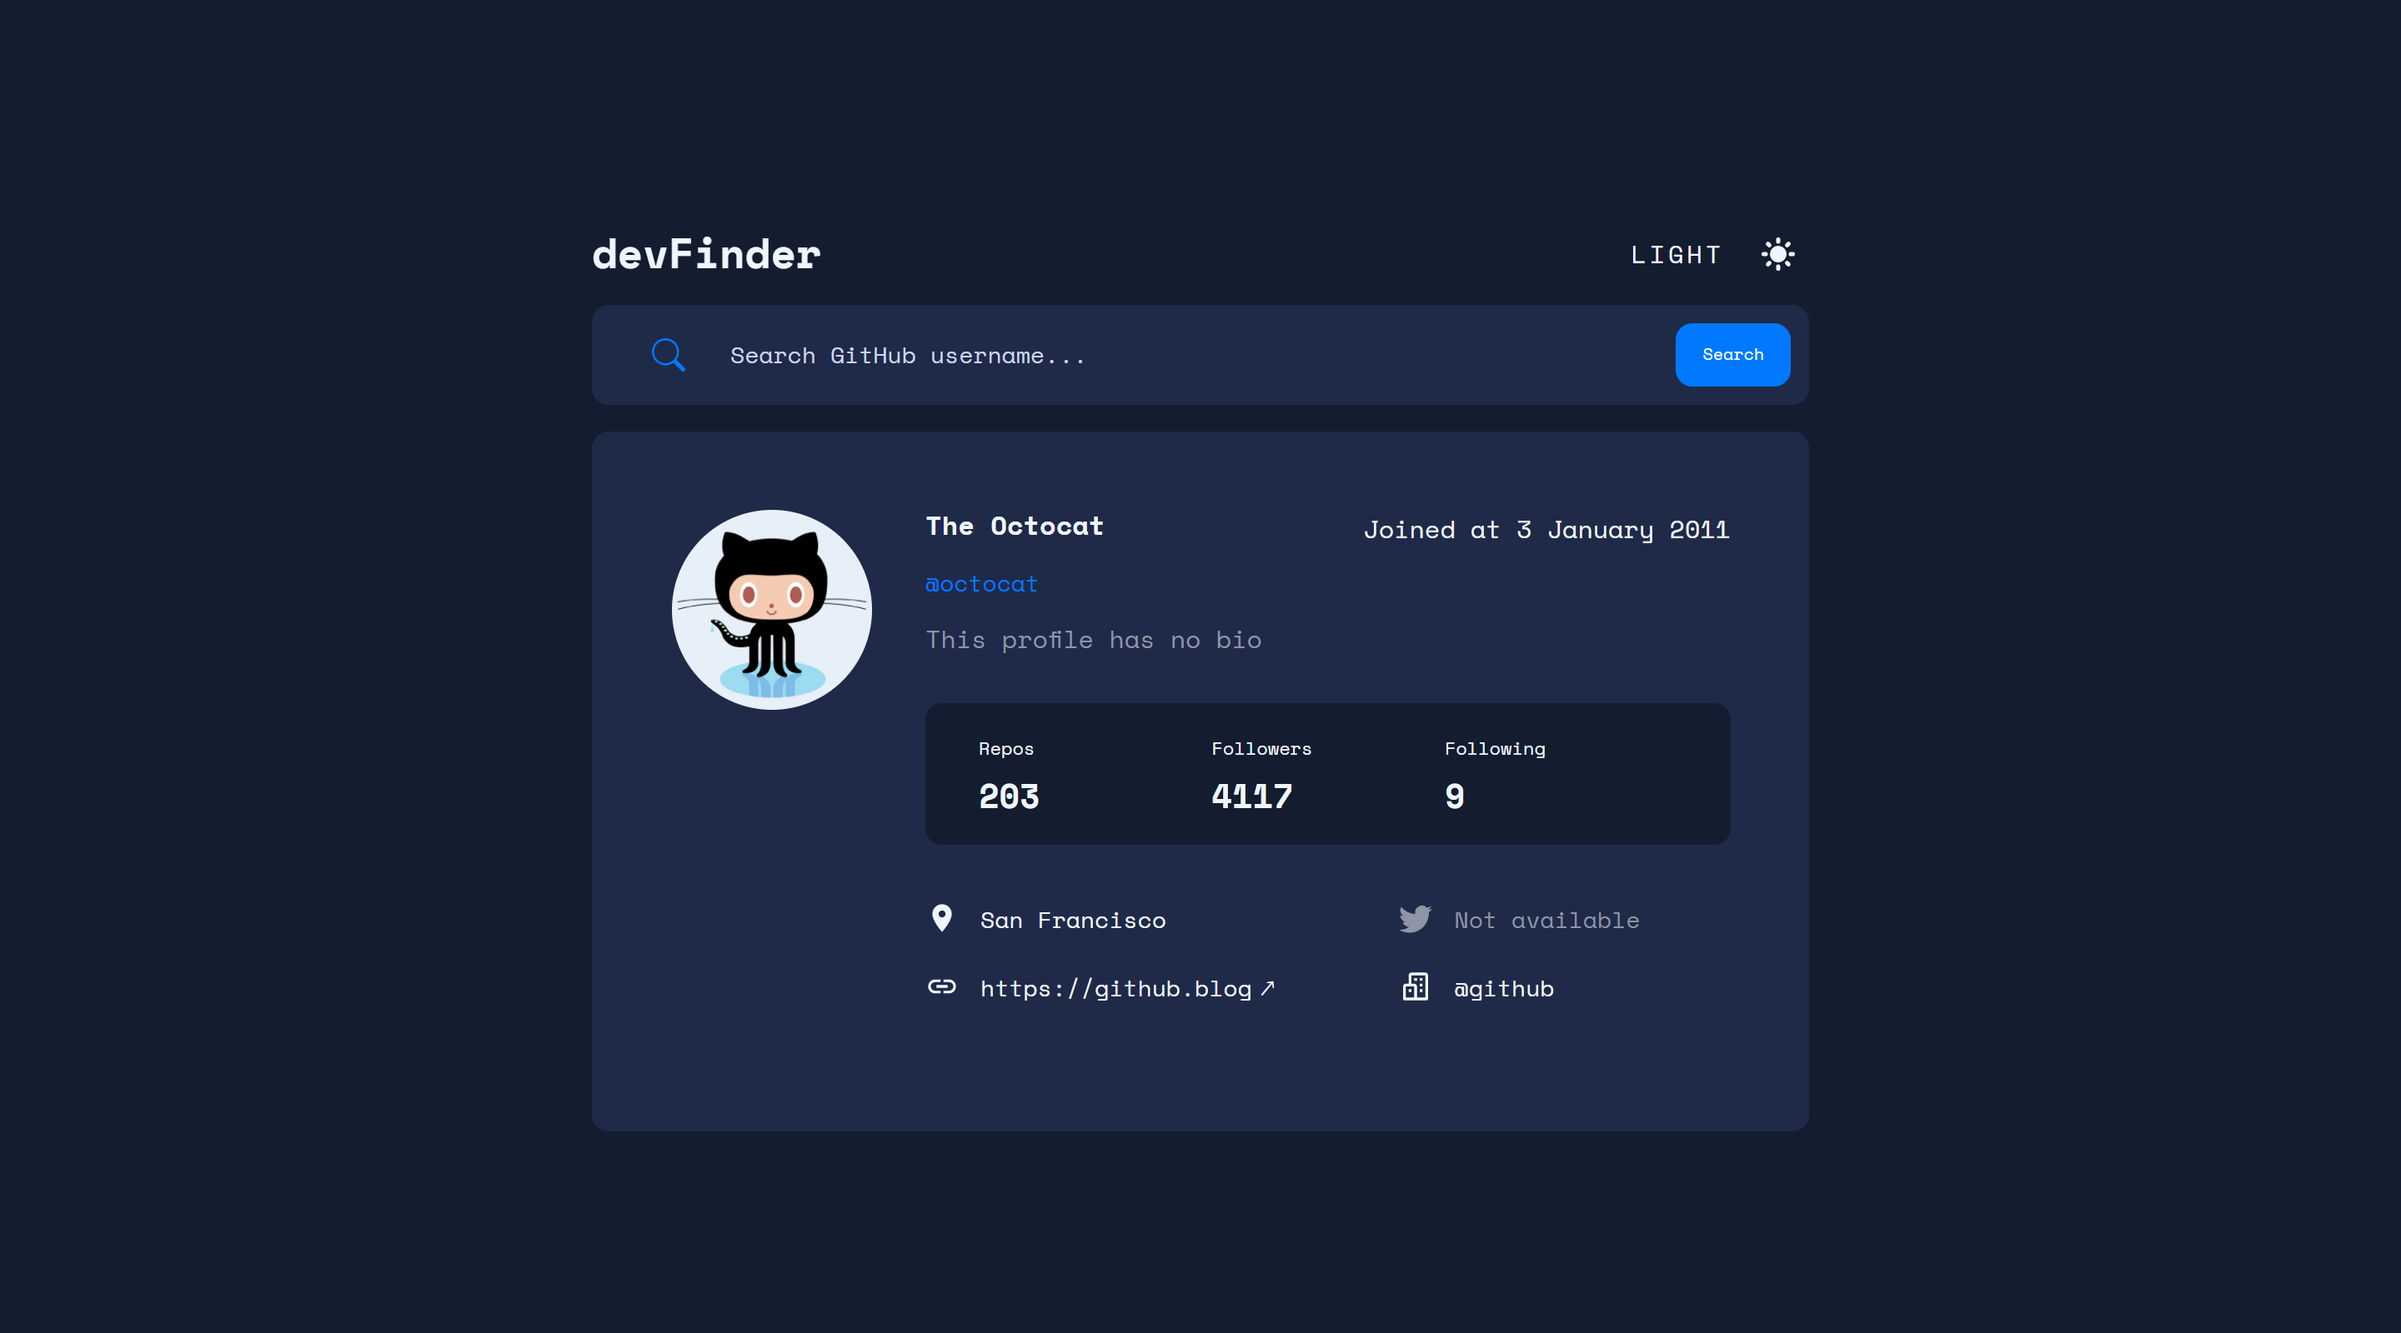
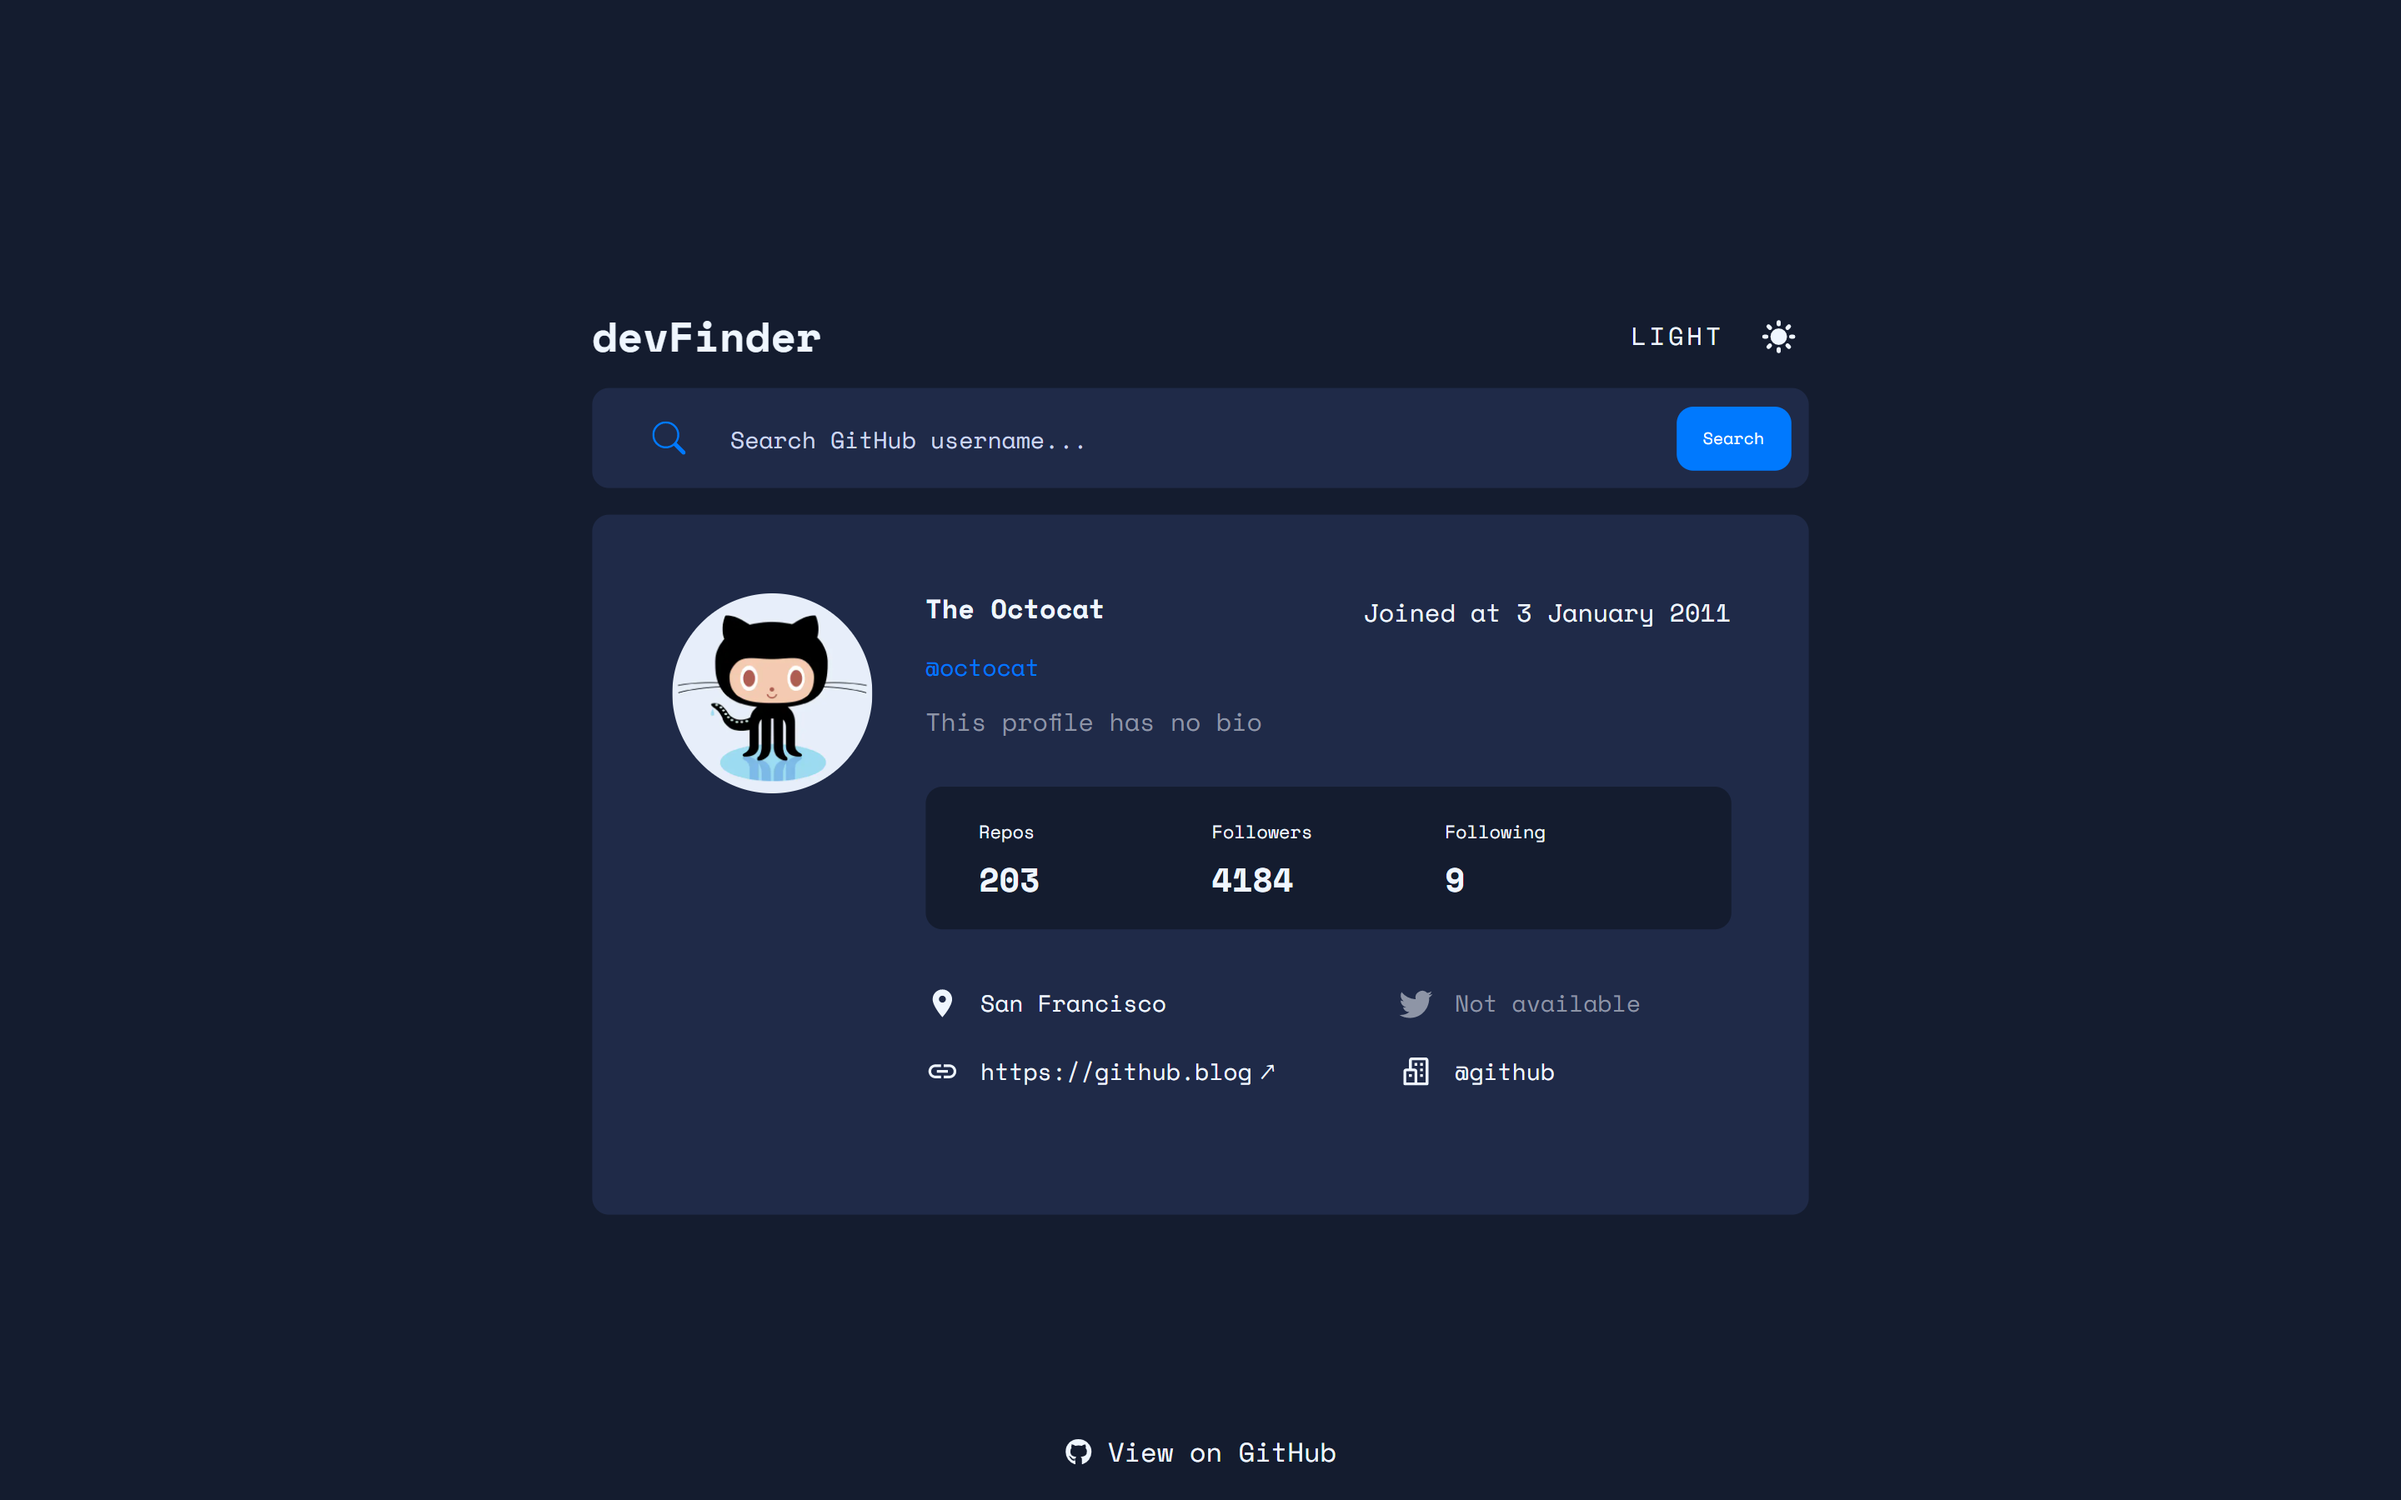
add: GitHub link & update screenshot

diff --git a/components/Home/Home.tsx b/components/Home/Home.tsx
@@ -4,6 +4,7 @@ import styles from "./Home.module.scss";
 import ThemeSwitcher from "../ThemeSwitcher/ThemeSwitcher";
 import SearchForm from "../SearchForm/SearchForm";
 import InfoCard from "../InfoCard/InfoCard";
+import GithubLink from "../GithubLink/GithubLink";
 
 export default function Home() {
   return (
@@ -23,6 +24,9 @@ export default function Home() {
         </div>
         <div className={styles.infoCard}>
           <InfoCard />
+        </div>
+        <div className={styles.githubLink}>
+          <GithubLink />
         </div>
       </main>
     </div>

diff --git a/components/GithubLink/GithubLink.tsx b/components/GithubLink/GithubLink.tsx
@@ -1,0 +1,18 @@
+import React from "react";
+import { FaGithub } from "react-icons/fa";
+import styles from './GithubLink.module.scss'
+
+export default function GithubLink() {
+  return (
+    <div className={styles.container}>
+      <a
+        href="https://github.com/ahmadbilalse/github-user-search"
+        target="_blank"
+        rel="noreferrer"
+      >
+        <FaGithub className={styles.icon} />
+        View on GitHub
+      </a>
+    </div>
+  );
+}

diff --git a/components/GithubLink/GithubLink.module.scss b/components/GithubLink/GithubLink.module.scss
@@ -1,0 +1,17 @@
+@use '../../styles/utils';
+
+.container {
+  font-size: 1.6rem;
+  padding: 1rem;
+  border-radius: utils.$border-radius;
+  text-align: center;
+}
+
+.container > * {
+  display: flex;
+  align-items: center;
+}
+
+.icon {
+  margin-right: 1rem;
+}

diff --git a/components/Home/Home.module.scss b/components/Home/Home.module.scss
@@ -38,3 +38,10 @@
 .infoCard {
   margin-top: 1.6rem;
 }
+
+.githubLink {
+  position: absolute;
+  bottom: 1rem;
+  left: 50%;
+  transform: translateX(-50%);
+}
